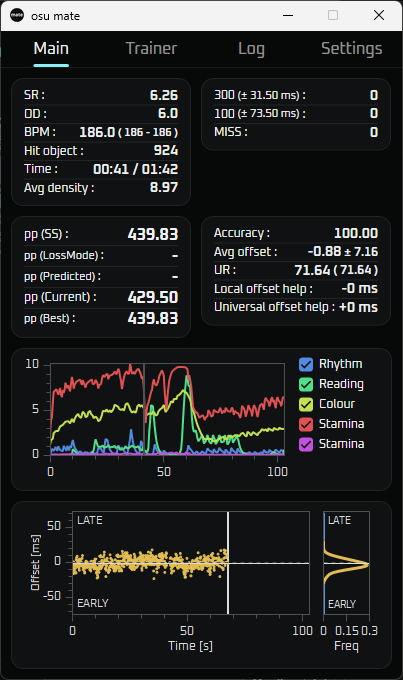
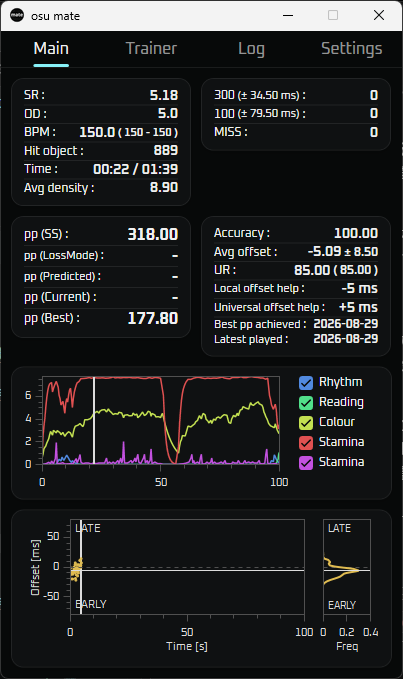
Add “Latest played” and “Best pp achieved” as new items on the InfoPanel, and reduce the size of the StrainGraph, URTimeGraph, and URDistGraph

diff --git a/Views/Controls/InfoPanel.xaml b/Views/Controls/InfoPanel.xaml
@@ -189,8 +189,6 @@
                   <Run Text="Avg offset:" />
                   <LineBreak />
                   <Run Text="It displays the average offset in REAL TIME, not beatmap-relative time." />
-                  <LineBreak />
-                  <Run Text="It doesn't use robust average." />
                 </TextBlock>
               </ToolTip>
             </DockPanel.ToolTip>
@@ -220,8 +218,6 @@
                   <Run Text="It displays the unstable rate in the format of &quot;beatmap-relative time (real time)&quot;." />
                   <LineBreak />
                   <Run Text="Beatmap-relative time is the official UR." />
-                  <LineBreak />
-                  <Run Text="It doesn't use robust average." />
                 </TextBlock>
               </ToolTip>
             </DockPanel.ToolTip>
@@ -286,6 +282,27 @@
               Text="{Binding UniversalOffsetHelp}"
             />
           </DockPanel>
+          <Rectangle Height="1" Fill="{DynamicResource SeparatorBrush}" />
+            <DockPanel LastChildFill="False">
+              <TextBlock Style="{StaticResource TextPanelSubLabelStyle}" Text="Best pp achieved :" />
+              <TextBlock
+                DockPanel.Dock="Right"
+                HorizontalAlignment="Right"
+                Style="{StaticResource TextPanelValueStyle}"
+                FontSize="12"
+                Text="{Binding BestPpAchievedAt}"
+              />
+            </DockPanel>
+            <DockPanel LastChildFill="False">
+              <TextBlock Style="{StaticResource TextPanelSubLabelStyle}" Text="Latest played :" />
+              <TextBlock
+                DockPanel.Dock="Right"
+                HorizontalAlignment="Right"
+                Style="{StaticResource TextPanelValueStyle}"
+                FontSize="12"
+                Text="{Binding LatestPlayedAt}"
+              />
+            </DockPanel>
         </StackPanel>
       </ContentControl>
     </StackPanel>

diff --git a/Views/Controls/StrainGraphPanel.xaml b/Views/Controls/StrainGraphPanel.xaml
@@ -18,7 +18,7 @@
     VerticalAlignment="Top"
   >
     <StackPanel Orientation="Horizontal">
-      <oxy:PlotView Model="{Binding PlotModel}" Background="Transparent" Height="125" Width="265" />
+      <oxy:PlotView Model="{Binding PlotModel}" Background="Transparent" Height="115" Width="265" />
       <StackPanel Orientation="Vertical" Margin="10 0 0 0" Width="80">
         <CheckBox
           Style="{StaticResource CheckBoxStyle}"

diff --git a/Views/Controls/URTimeGraph.xaml b/Views/Controls/URTimeGraph.xaml
@@ -14,7 +14,7 @@
 
   <oxy:PlotView
     Model="{Binding PlotModel}"
-    Height="150"
+    Height="140"
     Width="290"
     Background="Transparent"
     HorizontalAlignment="Left"

diff --git a/Views/Controls/URDistGraph.xaml b/Views/Controls/URDistGraph.xaml
@@ -14,7 +14,7 @@
 
   <oxy:PlotView
     Model="{Binding PlotModel}"
-    Height="150"
+    Height="140"
     Width="60"
     Background="Transparent"
     HorizontalAlignment="Left"

diff --git a/ViewModels/StrainGraphViewModel.cs b/ViewModels/StrainGraphViewModel.cs
@@ -214,7 +214,7 @@ namespace OsuMate.ViewModels
         Background = OxyColors.Transparent,
         PlotAreaBackground = OxyColors.Transparent,
         TextColor = _theme.OxyTextColor,
-        DefaultFontSize = 12F,
+        DefaultFontSize = 11F,
         PlotAreaBorderColor = _theme.OxyBorderColor,
         Padding = new OxyThickness(1, 1, 1, 1),
         IsLegendVisible = false,
@@ -249,7 +249,7 @@ namespace OsuMate.ViewModels
           new LineSeries
           {
             Color = GetBlue(),
-            StrokeThickness = 2,
+            StrokeThickness = 1.5,
             MarkerType = MarkerType.None,
             Tag = 0,
           },
@@ -259,7 +259,7 @@ namespace OsuMate.ViewModels
           new LineSeries
           {
             Color = GetGreen(),
-            StrokeThickness = 2,
+            StrokeThickness = 1.5,
             MarkerType = MarkerType.None,
             Tag = 1,
           },
@@ -269,7 +269,7 @@ namespace OsuMate.ViewModels
           new LineSeries
           {
             Color = GetYellow(),
-            StrokeThickness = 2,
+            StrokeThickness = 1.5,
             MarkerType = MarkerType.None,
             Tag = 2,
           },
@@ -279,7 +279,7 @@ namespace OsuMate.ViewModels
           new LineSeries
           {
             Color = GetRed(),
-            StrokeThickness = 2,
+            StrokeThickness = 1.5,
             MarkerType = MarkerType.None,
             Tag = 3,
           },
@@ -289,7 +289,7 @@ namespace OsuMate.ViewModels
           new LineSeries
           {
             Color = GetPink(),
-            StrokeThickness = 2,
+            StrokeThickness = 1.5,
             MarkerType = MarkerType.None,
             Tag = 4,
           },
@@ -310,7 +310,7 @@ namespace OsuMate.ViewModels
 
       _currentTimeLine = new LineSeries
       {
-        Color = _theme.OxyBorderColor,
+        Color = _theme.OxyTextColor,
         StrokeThickness = 2,
         MarkerType = MarkerType.None,
       };

diff --git a/Services/PlayLog/BestPpCalculator.cs b/Services/PlayLog/BestPpCalculator.cs
@@ -3,34 +3,47 @@ using OsuMate.Services.Osu;
 
 namespace OsuMate.Services.PlayLog
 {
+  public readonly record struct BeatmapPlayStats(
+    double? BestPp,
+    DateTime? BestPpAchievedAt,
+    DateTime? LatestPlayedAt
+  );
+
   internal static class BestPpCalculator
   {
-    internal static double? GetBestPp(
+    internal static BeatmapPlayStats GetStats(
       IEnumerable<PlayLogEntry> entries,
       string beatmapMd5,
       IEnumerable<string> targetPlayerNames
     )
     {
       if (string.IsNullOrEmpty(beatmapMd5))
-        return null;
+        return default;
 
-      double? best = null;
+      double? bestPp = null;
+      DateTime? bestPpPlayedAt = null;
+      DateTime? latestPlayedAt = null;
+
       foreach (var entry in entries)
       {
         if (entry.BeatmapMd5 != beatmapMd5)
           continue;
         if (!entry.IsCompleted)
           continue;
-        if (entry.Pp is not { } pp)
-          continue;
         if (!TargetPlayerFilter.Matches(entry.PlayerName, targetPlayerNames))
           continue;
 
-        if (best == null || pp > best.Value)
-          best = pp;
+        if (entry.Pp is { } pp && (bestPp == null || pp > bestPp.Value))
+        {
+          bestPp = pp;
+          bestPpPlayedAt = entry.PlayedAt;
+        }
+
+        if (latestPlayedAt == null || entry.PlayedAt > latestPlayedAt.Value)
+          latestPlayedAt = entry.PlayedAt;
       }
 
-      return best;
+      return new BeatmapPlayStats(bestPp, bestPpPlayedAt, latestPlayedAt);
     }
   }
 }

diff --git a/ViewModels/InfoViewModel.cs b/ViewModels/InfoViewModel.cs
@@ -293,6 +293,30 @@ namespace OsuMate.ViewModels
       }
     }
 
+    private string _latestPlayedAt = "-";
+
+    public string LatestPlayedAt
+    {
+      get => _latestPlayedAt;
+      set
+      {
+        _latestPlayedAt = value;
+        OnPropertyChanged();
+      }
+    }
+
+    private string _bestPpAchievedAt = "-";
+
+    public string BestPpAchievedAt
+    {
+      get => _bestPpAchievedAt;
+      set
+      {
+        _bestPpAchievedAt = value;
+        OnPropertyChanged();
+      }
+    }
+
     private string _accuracy = "-";
     public string Accuracy
     {
@@ -436,6 +460,13 @@ namespace OsuMate.ViewModels
     internal void UpdateBestPp(double? bestPp)
     {
       BestPp = bestPp.HasValue ? bestPp.Value.ToString("F2") : "-";
+    }
+
+    internal void UpdatePlayedAt(DateTime? latestPlayedAt, DateTime? bestPpPlayedAt)
+    {
+      static string Format(DateTime? d) => d.HasValue ? d.Value.ToString("yyyy-MM-dd") : "-";
+      LatestPlayedAt = Format(latestPlayedAt);
+      BestPpAchievedAt = Format(bestPpPlayedAt);
     }
 
     internal void UpdatePp(BeatmapData data, bool isPlaying, bool isResultScreen)

diff --git a/ViewModels/MainViewModel.cs b/ViewModels/MainViewModel.cs
@@ -97,9 +97,13 @@ namespace OsuMate.ViewModels
       _bestPpTracker.BestPpChanged += OnBestPpChanged;
     }
 
-    private void OnBestPpChanged(double? bestPp)
+    private void OnBestPpChanged(BeatmapPlayStats stats)
     {
-      void Apply() => Info.UpdateBestPp(bestPp);
+      void Apply()
+      {
+        Info.UpdateBestPp(stats.BestPp);
+        Info.UpdatePlayedAt(stats.LatestPlayedAt, stats.BestPpAchievedAt);
+      }
 
       var dispatcher = _uiDispatcher;
       if (dispatcher == null || dispatcher.CheckAccess())
@@ -150,7 +154,7 @@ namespace OsuMate.ViewModels
       bool isResultScreen = _memory.IsResultScreen;
       int gamemode = _ppService.CurrentGamemode;
       double speedMultiplier = _ppService.CurrentSpeedMultiplier;
-      double? bestPp = _bestPpTracker.CachedBestPp;
+      double? bestPp = _bestPpTracker.CachedStats.BestPp;
       int dataUpdateIntervalMs = _settings.DataUpdateIntervalMs;
 
       InGameOverlay.Update(

diff --git a/Services/PlayLog/BestPpTracker.cs b/Services/PlayLog/BestPpTracker.cs
@@ -12,9 +12,9 @@ namespace OsuMate.Services.PlayLog
 
     private string _lastBeatmapMd5 = "";
 
-    public double? CachedBestPp { get; private set; }
+    public BeatmapPlayStats CachedStats { get; private set; }
 
-    public event Action<double?>? BestPpChanged;
+    public event Action<BeatmapPlayStats>? BestPpChanged;
 
     public BestPpTracker(
       PlayLogService playLogService,
@@ -65,13 +65,9 @@ namespace OsuMate.Services.PlayLog
     public void Refresh(string beatmapMd5)
     {
       _lastBeatmapMd5 = beatmapMd5;
-      var bestPp = BestPpCalculator.GetBestPp(
-        _playLogService.Entries,
-        beatmapMd5,
-        _targetPlayerNames
-      );
-      CachedBestPp = bestPp;
-      BestPpChanged?.Invoke(bestPp);
+      var stats = BestPpCalculator.GetStats(_playLogService.Entries, beatmapMd5, _targetPlayerNames);
+      CachedStats = stats;
+      BestPpChanged?.Invoke(stats);
     }
   }
 }

diff --git a/ViewModels/URDistGraphViewModel.cs b/ViewModels/URDistGraphViewModel.cs
@@ -225,7 +225,7 @@ namespace OsuMate.ViewModels
     {
       _segmentPool.Clear();
       for (int i = 0; i < MaxSegments; i++)
-        _segmentPool.Add(new LineSeries { StrokeThickness = 3 });
+        _segmentPool.Add(new LineSeries { StrokeThickness = 2 });
     }
 
     private int ApplySegments(List<CurvePoint> points)
@@ -282,7 +282,7 @@ namespace OsuMate.ViewModels
         PlotAreaBackground = OxyColors.Transparent,
         TextColor = _theme.OxyTextColor,
         DefaultFont = _theme.OxyFontFamily,
-        DefaultFontSize = 12F,
+        DefaultFontSize = 11F,
         PlotAreaBorderColor = _theme.OxyBorderColor,
         Padding = new OxyThickness(1, 1, 1, 1),
         IsLegendVisible = false,

diff --git a/ViewModels/PlayStatsChartViewModel.cs b/ViewModels/PlayStatsChartViewModel.cs
@@ -142,7 +142,7 @@ namespace OsuMate.ViewModels
         PlotAreaBackground = OxyColors.Transparent,
         TextColor = _theme.OxyTextColor,
         DefaultFont = _theme.OxyFontFamily,
-        DefaultFontSize = 12F,
+        DefaultFontSize = 11F,
         PlotAreaBorderColor = _theme.OxyBorderColor,
         Padding = new OxyThickness(1, 1, 1, 1),
         IsLegendVisible = false,

diff --git a/ViewModels/URTimeGraphViewModel.cs b/ViewModels/URTimeGraphViewModel.cs
@@ -277,7 +277,7 @@ namespace OsuMate.ViewModels
         Background = OxyColors.Transparent,
         PlotAreaBackground = OxyColors.Transparent,
         TextColor = _theme.OxyTextColor,
-        DefaultFontSize = 12F,
+        DefaultFontSize = 11F,
         PlotAreaBorderColor = _theme.OxyBorderColor,
         Padding = new OxyThickness(1, 1, 1, 1),
         IsLegendVisible = false,
